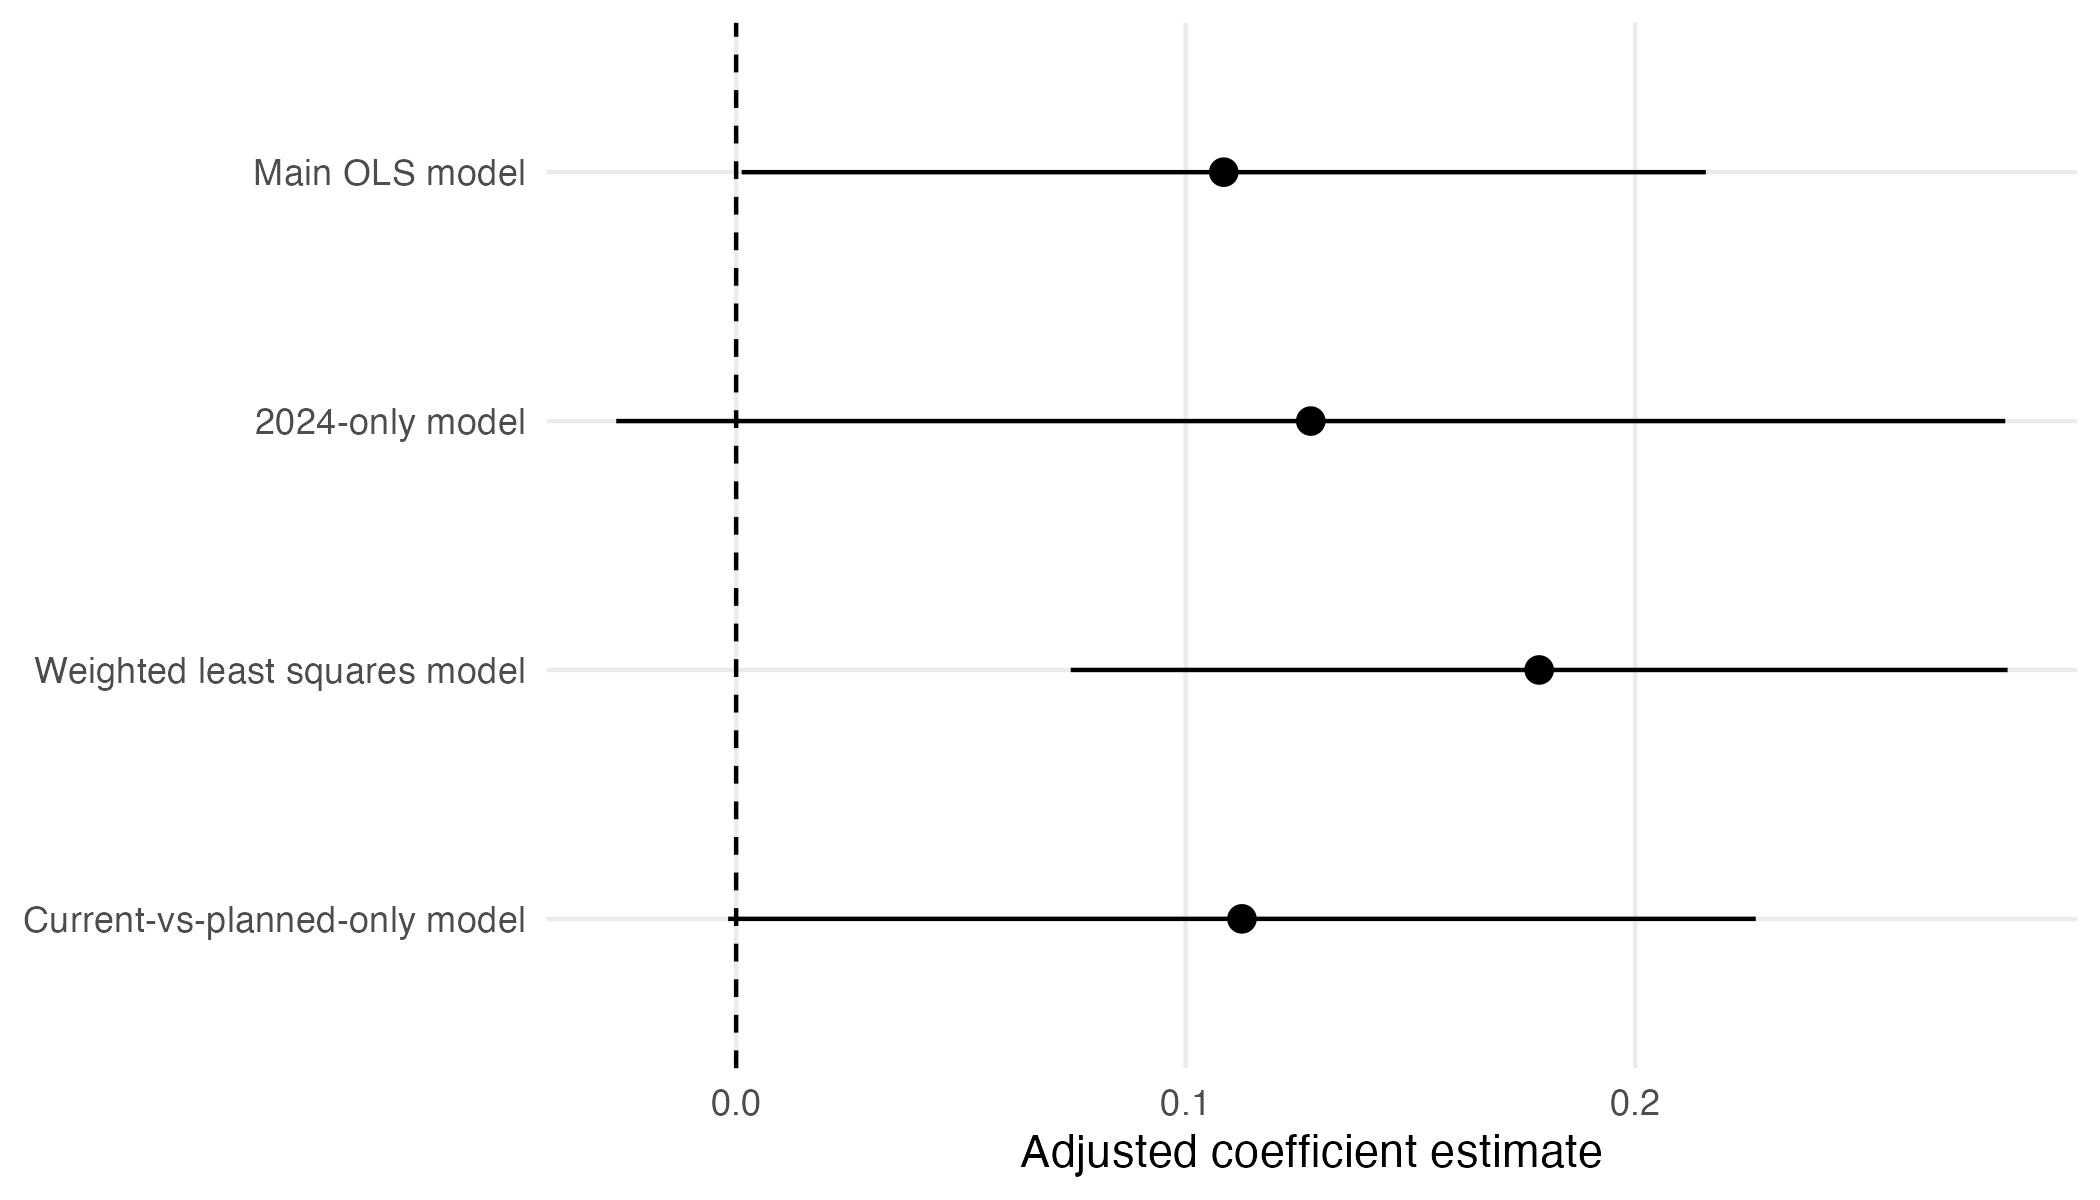
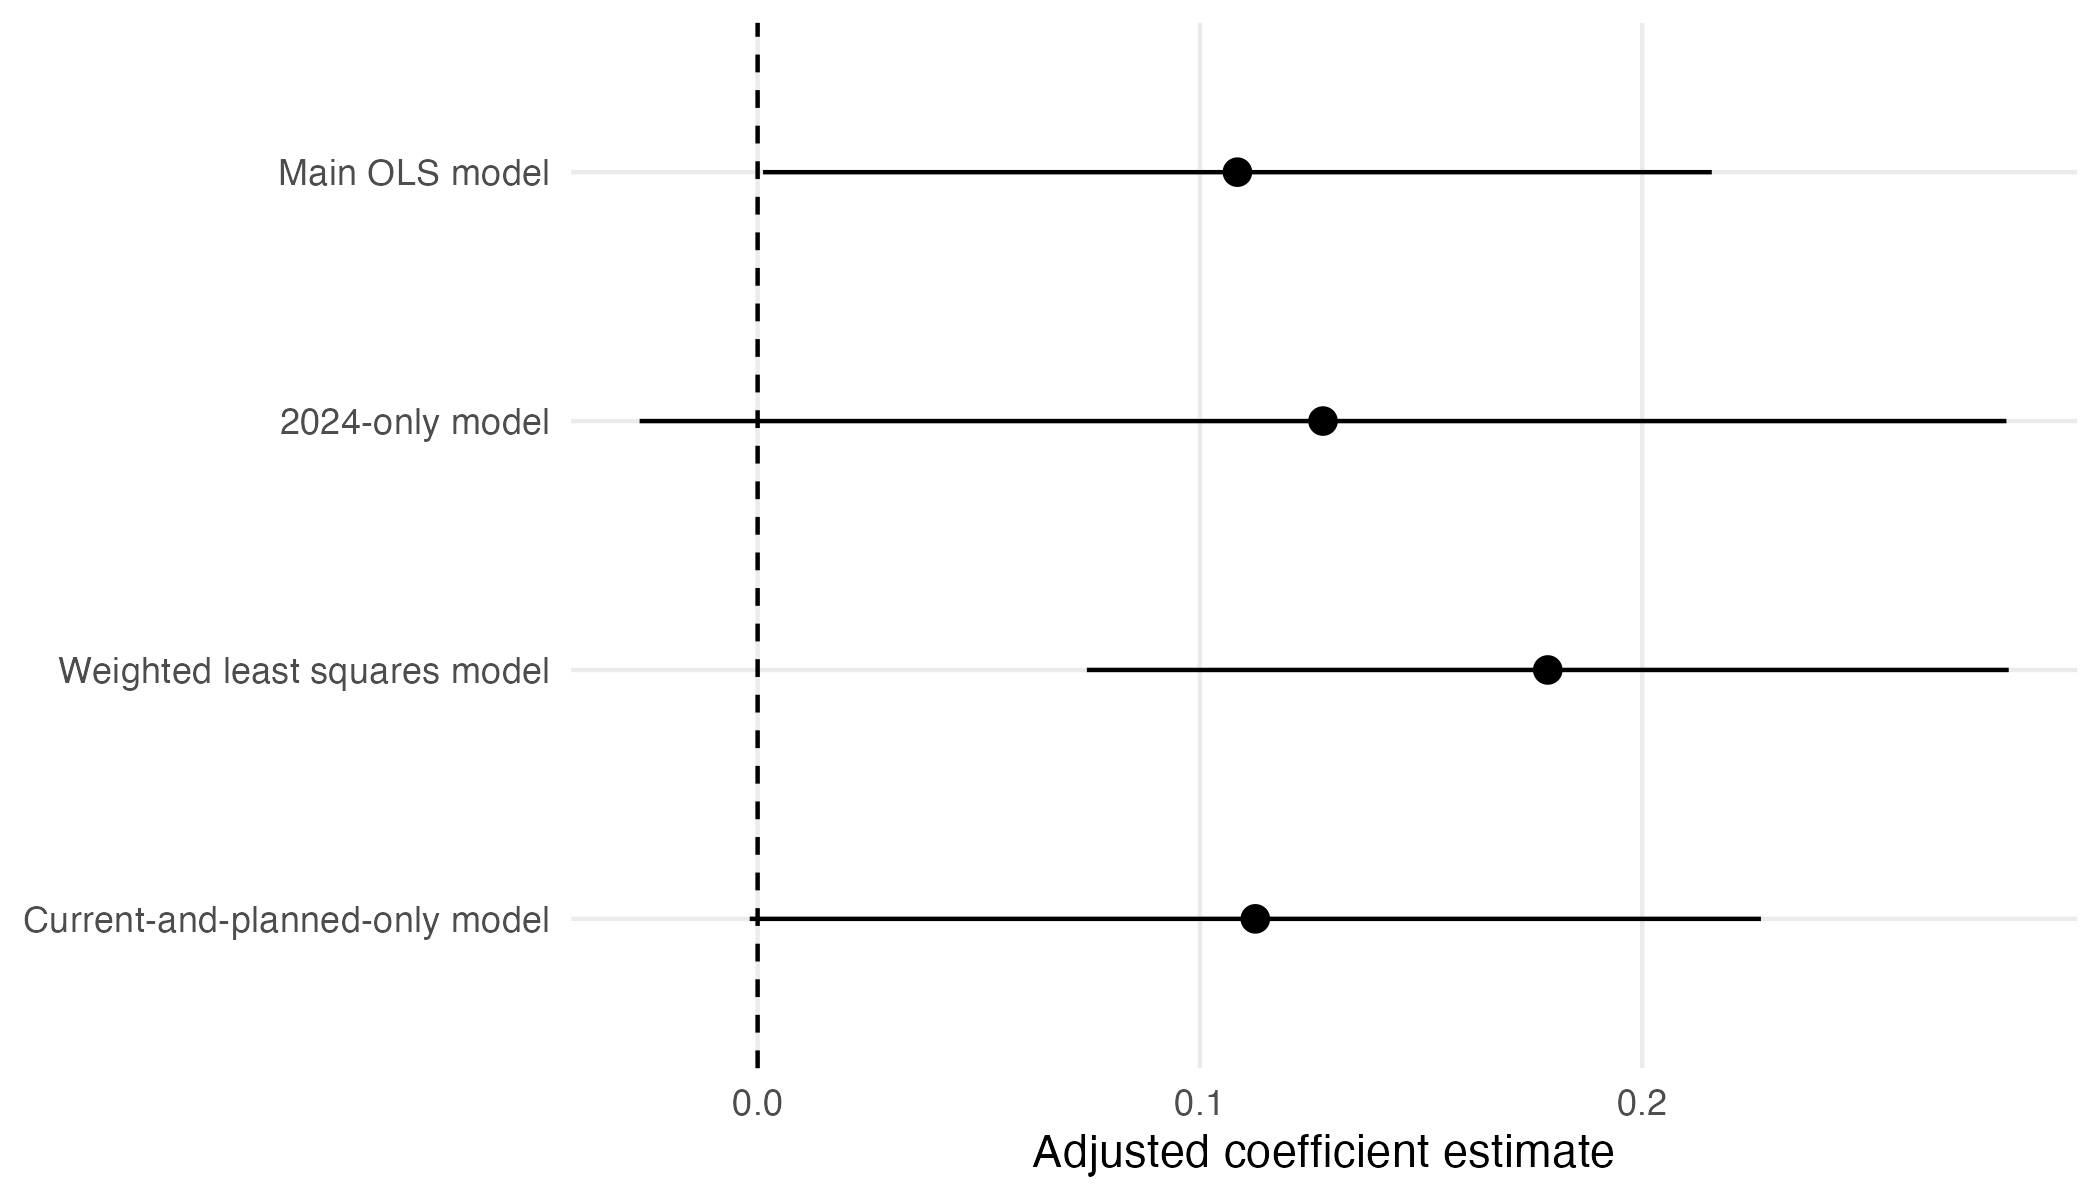
Update current-and-planned sensitivity labels

diff --git a/outputs/tables/tableA4_sensitivity_current_vs_planned.html b/outputs/tables/tableA4_sensitivity_current_vs_planned.html
@@ -7,23 +7,23 @@
 
 </head>
 <body>
-<div id="usxiypkjcs" style="padding-left:0px;padding-right:0px;padding-top:10px;padding-bottom:10px;overflow-x:auto;overflow-y:auto;width:auto;height:auto;">
-  <style>#usxiypkjcs table {
+<div id="wdwynojyum" style="padding-left:0px;padding-right:0px;padding-top:10px;padding-bottom:10px;overflow-x:auto;overflow-y:auto;width:auto;height:auto;">
+  <style>#wdwynojyum table {
   font-family: system-ui, 'Segoe UI', Roboto, Helvetica, Arial, sans-serif, 'Apple Color Emoji', 'Segoe UI Emoji', 'Segoe UI Symbol', 'Noto Color Emoji';
   -webkit-font-smoothing: antialiased;
   -moz-osx-font-smoothing: grayscale;
 }
 
-#usxiypkjcs thead, #usxiypkjcs tbody, #usxiypkjcs tfoot, #usxiypkjcs tr, #usxiypkjcs td, #usxiypkjcs th {
+#wdwynojyum thead, #wdwynojyum tbody, #wdwynojyum tfoot, #wdwynojyum tr, #wdwynojyum td, #wdwynojyum th {
   border-style: none;
 }
 
-#usxiypkjcs p {
+#wdwynojyum p {
   margin: 0;
   padding: 0;
 }
 
-#usxiypkjcs .gt_table {
+#wdwynojyum .gt_table {
   display: table;
   border-collapse: collapse;
   line-height: normal;
@@ -49,12 +49,12 @@
   border-left-color: #D3D3D3;
 }
 
-#usxiypkjcs .gt_caption {
+#wdwynojyum .gt_caption {
   padding-top: 4px;
   padding-bottom: 4px;
 }
 
-#usxiypkjcs .gt_title {
+#wdwynojyum .gt_title {
   color: #333333;
   font-size: 125%;
   font-weight: initial;
@@ -66,7 +66,7 @@
   border-bottom-width: 0;
 }
 
-#usxiypkjcs .gt_subtitle {
+#wdwynojyum .gt_subtitle {
   color: #333333;
   font-size: 85%;
   font-weight: initial;
@@ -78,7 +78,7 @@
   border-top-width: 0;
 }
 
-#usxiypkjcs .gt_heading {
+#wdwynojyum .gt_heading {
   background-color: #FFFFFF;
   text-align: center;
   border-bottom-color: #FFFFFF;
@@ -90,13 +90,13 @@
   border-right-color: #D3D3D3;
 }
 
-#usxiypkjcs .gt_bottom_border {
+#wdwynojyum .gt_bottom_border {
   border-bottom-style: solid;
   border-bottom-width: 2px;
   border-bottom-color: #D3D3D3;
 }
 
-#usxiypkjcs .gt_col_headings {
+#wdwynojyum .gt_col_headings {
   border-top-style: solid;
   border-top-width: 2px;
   border-top-color: #D3D3D3;
@@ -111,7 +111,7 @@
   border-right-color: #D3D3D3;
 }
 
-#usxiypkjcs .gt_col_heading {
+#wdwynojyum .gt_col_heading {
   color: #333333;
   background-color: #FFFFFF;
   font-size: 100%;
@@ -131,7 +131,7 @@
   overflow-x: hidden;
 }
 
-#usxiypkjcs .gt_column_spanner_outer {
+#wdwynojyum .gt_column_spanner_outer {
   color: #333333;
   background-color: #FFFFFF;
   font-size: 100%;
@@ -143,15 +143,15 @@
   padding-right: 4px;
 }
 
-#usxiypkjcs .gt_column_spanner_outer:first-child {
+#wdwynojyum .gt_column_spanner_outer:first-child {
   padding-left: 0;
 }
 
-#usxiypkjcs .gt_column_spanner_outer:last-child {
+#wdwynojyum .gt_column_spanner_outer:last-child {
   padding-right: 0;
 }
 
-#usxiypkjcs .gt_column_spanner {
+#wdwynojyum .gt_column_spanner {
   border-bottom-style: solid;
   border-bottom-width: 2px;
   border-bottom-color: #D3D3D3;
@@ -163,11 +163,11 @@
   width: 100%;
 }
 
-#usxiypkjcs .gt_spanner_row {
+#wdwynojyum .gt_spanner_row {
   border-bottom-style: hidden;
 }
 
-#usxiypkjcs .gt_group_heading {
+#wdwynojyum .gt_group_heading {
   padding-top: 8px;
   padding-bottom: 8px;
   padding-left: 5px;
@@ -193,7 +193,7 @@
   text-align: left;
 }
 
-#usxiypkjcs .gt_empty_group_heading {
+#wdwynojyum .gt_empty_group_heading {
   padding: 0.5px;
   color: #333333;
   background-color: #FFFFFF;
@@ -208,15 +208,15 @@
   vertical-align: middle;
 }
 
-#usxiypkjcs .gt_from_md > :first-child {
+#wdwynojyum .gt_from_md > :first-child {
   margin-top: 0;
 }
 
-#usxiypkjcs .gt_from_md > :last-child {
+#wdwynojyum .gt_from_md > :last-child {
   margin-bottom: 0;
 }
 
-#usxiypkjcs .gt_row {
+#wdwynojyum .gt_row {
   padding-top: 8px;
   padding-bottom: 8px;
   padding-left: 5px;
@@ -235,7 +235,7 @@
   overflow-x: hidden;
 }
 
-#usxiypkjcs .gt_stub {
+#wdwynojyum .gt_stub {
   color: #333333;
   background-color: #FFFFFF;
   font-size: 100%;
@@ -248,7 +248,7 @@
   padding-right: 5px;
 }
 
-#usxiypkjcs .gt_stub_row_group {
+#wdwynojyum .gt_stub_row_group {
   color: #333333;
   background-color: #FFFFFF;
   font-size: 100%;
@@ -262,15 +262,15 @@
   vertical-align: top;
 }
 
-#usxiypkjcs .gt_row_group_first td {
+#wdwynojyum .gt_row_group_first td {
   border-top-width: 2px;
 }
 
-#usxiypkjcs .gt_row_group_first th {
+#wdwynojyum .gt_row_group_first th {
   border-top-width: 2px;
 }
 
-#usxiypkjcs .gt_summary_row {
+#wdwynojyum .gt_summary_row {
   color: #333333;
   background-color: #FFFFFF;
   text-transform: inherit;
@@ -280,16 +280,16 @@
   padding-right: 5px;
 }
 
-#usxiypkjcs .gt_first_summary_row {
+#wdwynojyum .gt_first_summary_row {
   border-top-style: solid;
   border-top-color: #D3D3D3;
 }
 
-#usxiypkjcs .gt_first_summary_row.thick {
+#wdwynojyum .gt_first_summary_row.thick {
   border-top-width: 2px;
 }
 
-#usxiypkjcs .gt_last_summary_row {
+#wdwynojyum .gt_last_summary_row {
   padding-top: 8px;
   padding-bottom: 8px;
   padding-left: 5px;
@@ -299,7 +299,7 @@
   border-bottom-color: #D3D3D3;
 }
 
-#usxiypkjcs .gt_grand_summary_row {
+#wdwynojyum .gt_grand_summary_row {
   color: #333333;
   background-color: #FFFFFF;
   text-transform: inherit;
@@ -309,7 +309,7 @@
   padding-right: 5px;
 }
 
-#usxiypkjcs .gt_first_grand_summary_row {
+#wdwynojyum .gt_first_grand_summary_row {
   padding-top: 8px;
   padding-bottom: 8px;
   padding-left: 5px;
@@ -319,7 +319,7 @@
   border-top-color: #D3D3D3;
 }
 
-#usxiypkjcs .gt_last_grand_summary_row_top {
+#wdwynojyum .gt_last_grand_summary_row_top {
   padding-top: 8px;
   padding-bottom: 8px;
   padding-left: 5px;
@@ -329,11 +329,11 @@
   border-bottom-color: #D3D3D3;
 }
 
-#usxiypkjcs .gt_striped {
+#wdwynojyum .gt_striped {
   background-color: rgba(128, 128, 128, 0.05);
 }
 
-#usxiypkjcs .gt_table_body {
+#wdwynojyum .gt_table_body {
   border-top-style: solid;
   border-top-width: 2px;
   border-top-color: #D3D3D3;
@@ -342,7 +342,7 @@
   border-bottom-color: #D3D3D3;
 }
 
-#usxiypkjcs .gt_footnotes {
+#wdwynojyum .gt_footnotes {
   color: #333333;
   background-color: #FFFFFF;
   border-bottom-style: none;
@@ -356,7 +356,7 @@
   border-right-color: #D3D3D3;
 }
 
-#usxiypkjcs .gt_footnote {
+#wdwynojyum .gt_footnote {
   margin: 0px;
   font-size: 90%;
   padding-top: 4px;
@@ -365,7 +365,7 @@
   padding-right: 5px;
 }
 
-#usxiypkjcs .gt_sourcenotes {
+#wdwynojyum .gt_sourcenotes {
   color: #333333;
   background-color: #FFFFFF;
   border-bottom-style: none;
@@ -379,7 +379,7 @@
   border-right-color: #D3D3D3;
 }
 
-#usxiypkjcs .gt_sourcenote {
+#wdwynojyum .gt_sourcenote {
   font-size: 90%;
   padding-top: 4px;
   padding-bottom: 4px;
@@ -387,72 +387,72 @@
   padding-right: 5px;
 }
 
-#usxiypkjcs .gt_left {
+#wdwynojyum .gt_left {
   text-align: left;
 }
 
-#usxiypkjcs .gt_center {
+#wdwynojyum .gt_center {
   text-align: center;
 }
 
-#usxiypkjcs .gt_right {
+#wdwynojyum .gt_right {
   text-align: right;
   font-variant-numeric: tabular-nums;
 }
 
-#usxiypkjcs .gt_font_normal {
+#wdwynojyum .gt_font_normal {
   font-weight: normal;
 }
 
-#usxiypkjcs .gt_font_bold {
+#wdwynojyum .gt_font_bold {
   font-weight: bold;
 }
 
-#usxiypkjcs .gt_font_italic {
+#wdwynojyum .gt_font_italic {
   font-style: italic;
 }
 
-#usxiypkjcs .gt_super {
+#wdwynojyum .gt_super {
   font-size: 65%;
 }
 
-#usxiypkjcs .gt_footnote_marks {
+#wdwynojyum .gt_footnote_marks {
   font-size: 75%;
   vertical-align: 0.4em;
   position: initial;
 }
 
-#usxiypkjcs .gt_asterisk {
+#wdwynojyum .gt_asterisk {
   font-size: 100%;
   vertical-align: 0;
 }
 
-#usxiypkjcs .gt_indent_1 {
+#wdwynojyum .gt_indent_1 {
   text-indent: 5px;
 }
 
-#usxiypkjcs .gt_indent_2 {
+#wdwynojyum .gt_indent_2 {
   text-indent: 10px;
 }
 
-#usxiypkjcs .gt_indent_3 {
+#wdwynojyum .gt_indent_3 {
   text-indent: 15px;
 }
 
-#usxiypkjcs .gt_indent_4 {
+#wdwynojyum .gt_indent_4 {
   text-indent: 20px;
 }
 
-#usxiypkjcs .gt_indent_5 {
+#wdwynojyum .gt_indent_5 {
   text-indent: 25px;
 }
 
-#usxiypkjcs .katex-display {
+#wdwynojyum .katex-display {
   display: inline-flex !important;
   margin-bottom: 0.75em !important;
 }
 
-#usxiypkjcs div.Reactable > div.rt-table > div.rt-thead > div.rt-tr.rt-tr-group-header > div.rt-th-group:after {
+#wdwynojyum div.Reactable > div.rt-table > div.rt-thead > div.rt-tr.rt-tr-group-header > div.rt-th-group:after {
   height: 0px !important;
 }
 </style>
@@ -500,7 +500,7 @@
 <td headers="p-value" class="gt_row gt_left">&lt;0.001</td>
 <td headers="R-squared" class="gt_row gt_right">0.463</td>
 <td headers="Adjusted R-squared" class="gt_row gt_right">0.417</td></tr>
-    <tr><td headers="Model" class="gt_row gt_left">Current-vs-planned-only model</td>
+    <tr><td headers="Model" class="gt_row gt_left">Current-and-planned-only model</td>
 <td headers="N" class="gt_row gt_right">401</td>
 <td headers="Estimate" class="gt_row gt_right">0.113</td>
 <td headers="SE" class="gt_row gt_right">0.058</td>
@@ -511,7 +511,7 @@
   </tbody>
   <tfoot>
     <tr class="gt_sourcenotes">
-      <td class="gt_sourcenote" colspan="8">The estimate shown is the adjusted coefficient for current TEFCA participation relative to planned-but-not-current TEFCA participation. The 2024-only model omitted year fixed effects because only one ONC survey year was included.</td>
+      <td class="gt_sourcenote" colspan="8">The estimate shown is the adjusted coefficient for current TEFCA participation relative to planned TEFCA participation. The 2024-only model omitted year fixed effects because only one ONC survey year was included.</td>
     </tr>
   </tfoot>
 </table>
